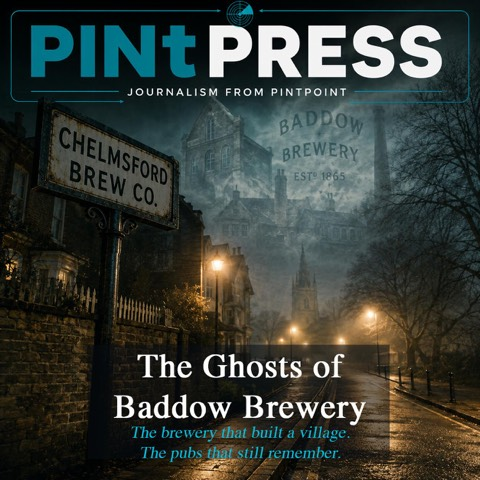
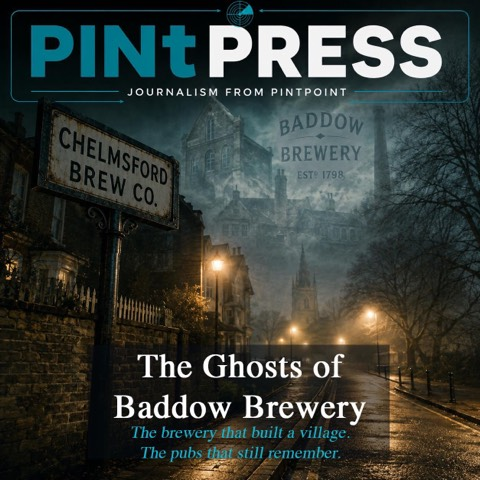
Baddow cover now agrees with the piece
The card reads Estd 1798, which is the year the piece gives for the
brewery's founding. The two picture descriptions on that page said 1865
and have been put right to match.

Claude-Session: https://claude.ai/code/session_01Pk4X9k7dSDBKykffX1undZ

Changed region(s): [[0.5625, 0.2188, 0.75, 0.375]]

diff --git a/blog/ghosts-of-baddow-brewery.html b/blog/ghosts-of-baddow-brewery.html
@@ -13,7 +13,7 @@
   <meta property="og:title" content="Ghosts of Baddow Brewery" />
   <meta property="og:description" content="Of Baddow Brewery’s 61 listed pubs, 30 still appear to be trading. This is the lost Essex brewery estate map." />
   <meta property="og:image" content="https://pintpoint.co.uk/blog/images/ghosts-of-baddow-brewery-v2.jpg" />
-  <meta property="og:image:alt" content="A Chelmsford Brew Co pub sign in the foreground of a rain-slick Great Baddow street at night, with the ghostly outline of the old Baddow Brewery (Estd 1865) fading into the mist above the rooftops — church spire and gaslamps in the distance." />
+  <meta property="og:image:alt" content="A Chelmsford Brew Co pub sign in the foreground of a rain-slick Great Baddow street at night, with the ghostly outline of the old Baddow Brewery (Estd 1798) fading into the mist above the rooftops — church spire and gaslamps in the distance." />
   <meta name="twitter:card" content="summary_large_image" />
   <link rel="preconnect" href="https://fonts.googleapis.com" />
   <link href="https://fonts.googleapis.com/css2?family=Inter:wght@400;500;600;700;800;900&display=swap" rel="stylesheet" />
@@ -101,7 +101,7 @@
     <h1>Ghosts of <em>Baddow Brewery</em></h1>
 
     <figure class="hero">
-      <img src="/blog/images/ghosts-of-baddow-brewery-v2.jpg" alt="Chelmsford Brew Co pub sign in the foreground with the ghostly outline of the old Baddow Brewery, Estd 1865, rising behind it — church spire, gaslamps and wet cobbles at night." loading="eager" width="1254" height="1254" />
+      <img src="/blog/images/ghosts-of-baddow-brewery-v2.jpg" alt="Chelmsford Brew Co pub sign in the foreground with the ghostly outline of the old Baddow Brewery, Estd 1798, rising behind it — church spire, gaslamps and wet cobbles at night." loading="eager" width="1254" height="1254" />
     </figure>
 
     <div class="lede">

diff --git a/blog/page-2.html b/blog/page-2.html
@@ -218,6 +218,7 @@
 
 
 
+
     <ul class="post-list">
       <li>
         <a href="augustiner-on-draft-uk-six-pubs.html" class="post">

diff --git a/blog/index.html b/blog/index.html
@@ -243,6 +243,7 @@
 
 
 
+
     <ul class="post-list">
       <li>
         <a href="beerology-anatomy-of-a-pint.html" class="post">
